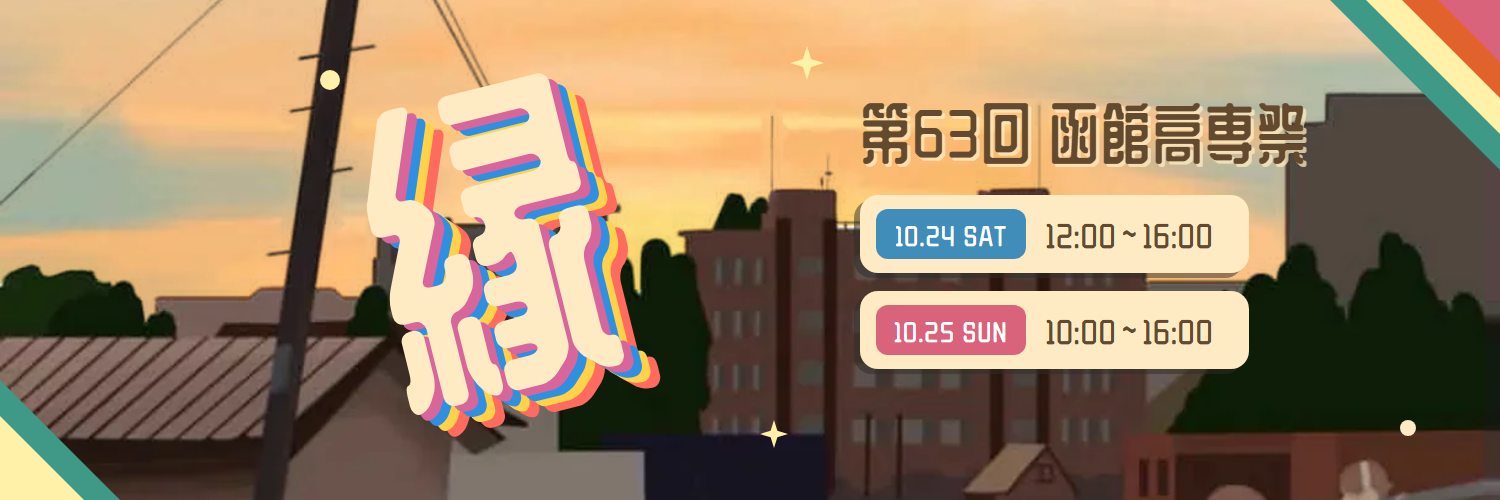
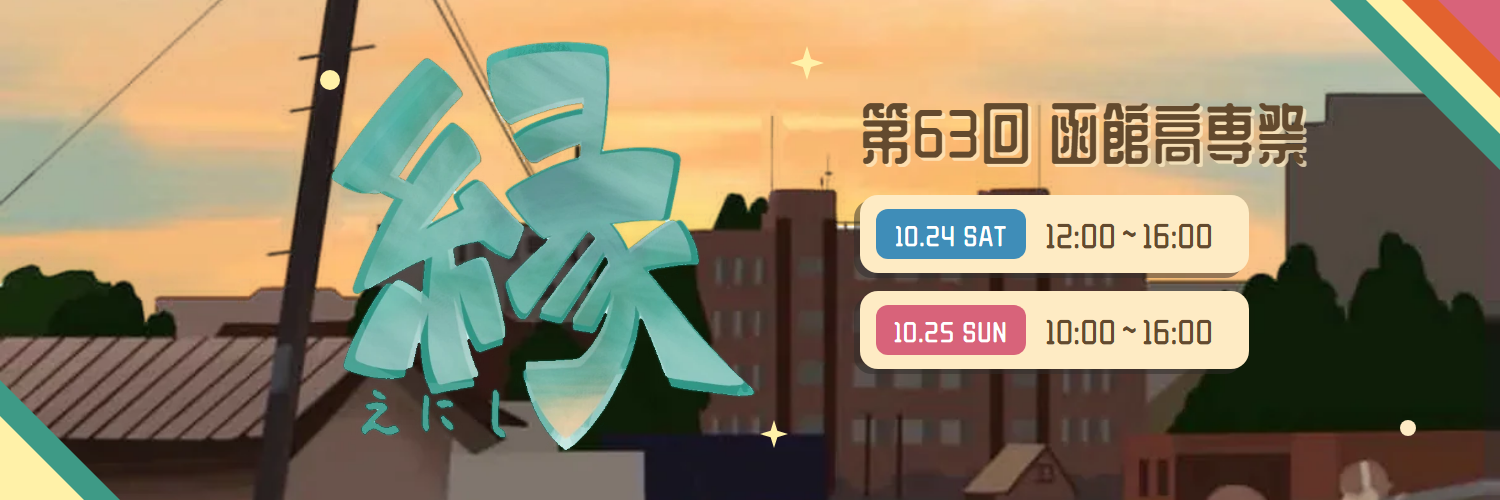
X用ヘッダー（絵の案）：緑のガラス調のロゴに

Changed region(s): [[0.2147, 0.06, 0.5213, 0.9]]

diff --git a/tools/x-profile.html b/tools/x-profile.html
@@ -38,6 +38,8 @@
   /* ヘッダーの headerscene：背景に、トップの一番上の絵（scene.webp＋sky-sunset.webp）の、屋根と人のあたりの帯（絵の y=820 から。倍率 1.2346） */
   .scene .bg { background: url("../site/assets/img/scene.webp") 0 -1010px / 1500px auto no-repeat, url("../site/assets/img/sky-sunset.webp") 0 -1010px / 1500px auto no-repeat; }
   .scene .t { color: #634A2E; text-shadow: 3px 3px 0 rgba(254, 235, 196, .75); } /* 空が明るいので、題字は茶色 */
+  /* 絵（headerscene）の上には、緑のガラス調のロゴ（logo.webp）。色の面の上には、縁のハンコ */
+  .scene .logo { position: absolute; left: 330px; top: 40px; height: 420px; width: auto; }
   /* 人のシルエット（トップの絵 top-figs.webp の3人。ヘッダーの headerfigs だけ） */
   .fig { position: absolute; background: url("../site/assets/img/top-figs.webp") no-repeat; background-size: 504px auto; } /* 倍率 1.6 */
   .f1 { left: 50px; top: 30px; width: 165px; height: 173px; background-position: 0 0; }
@@ -60,7 +62,7 @@
     icon: `<div class="bg"></div><div class="grain"></div><div class="en">縁</div>`,
   }[/^header/.test(v) ? "header" : v];
   document.body.className = v === "headerfigs" ? "header" : v === "headerscene" ? "header scene" : v;
-  document.body.insertAdjacentHTML("afterbegin", v === "headerfigs" ? html.replace('<div class="en">', figs + '<div class="en">') : html);
+  document.body.insertAdjacentHTML("afterbegin", v === "headerfigs" ? html.replace('<div class="en">', figs + '<div class="en">') : v === "headerscene" ? html.replace('<div class="en">縁</div>', '<img class="logo" src="../site/assets/img/logo.webp" alt="">') : html);
 </script>
 </body>
 </html>
